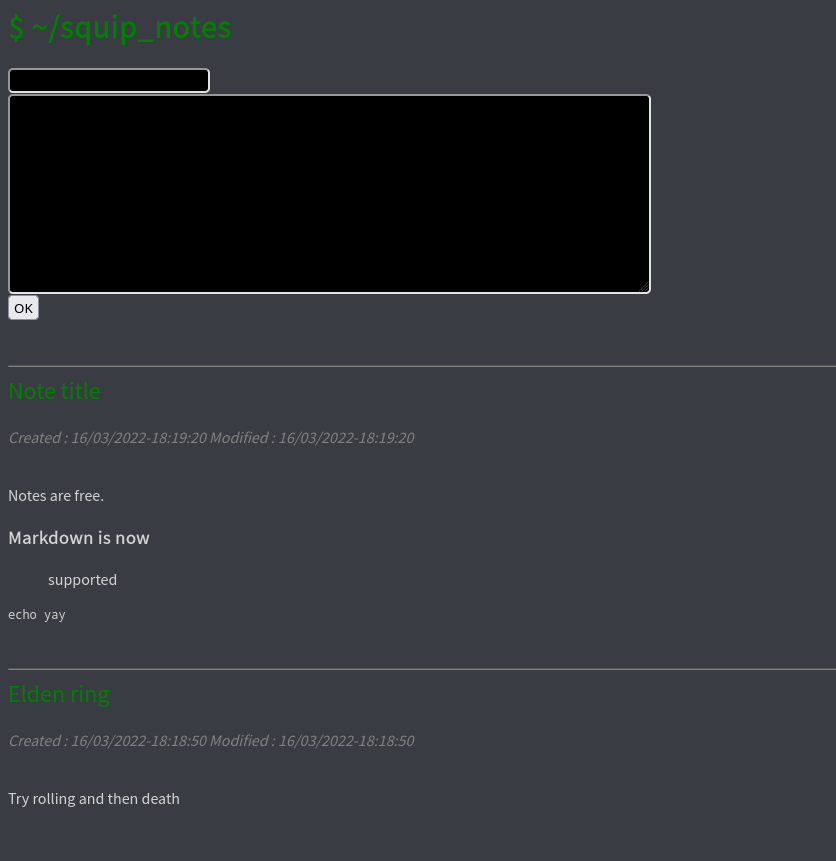
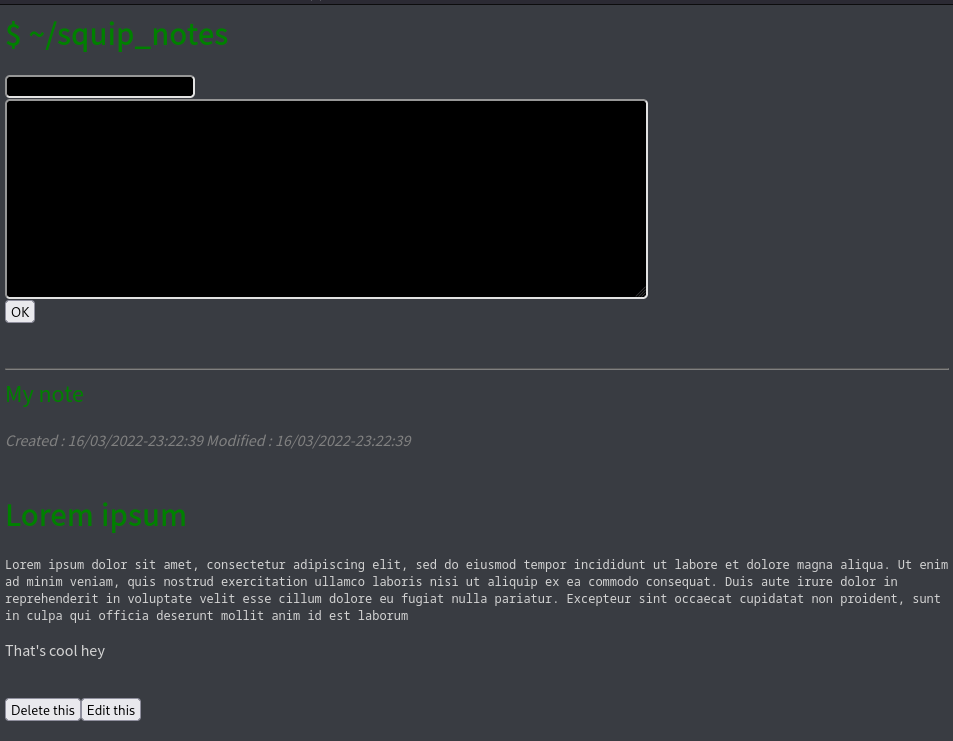
Edition et suppression des notes

Changed region(s): [[0.0, 0.0, 0.7775, 0.4656], [0.0, 0.7449, 0.9952, 0.9933], [0.0, 0.4966, 0.4976, 0.7139]]

diff --git a/src/templates/edit.html b/src/templates/edit.html
@@ -1,0 +1,28 @@
+<html>
+	<head>
+		<link rel="stylesheet" href="{{ url_for('static', filename='styles/main.css') }}" type="text/css" />
+		<meta http-equiv="Content-Type" content="text/html; charset=utf-8"/>
+		<link href='https://fonts.googleapis.com/css?family=Source Sans Pro' rel='stylesheet'>
+	<title>squip_notes</title>
+	</head>
+	<body>
+
+	<h1>$ ~/squip_notes</h3>
+	<div class="div1">
+		<form action="." method="POST">
+			<textarea type="text" name="title" class="title">{{ ntitle }}</textarea><br>
+			<textarea type="text" name="text" rows = "5" cols = "60*" class="text">{{ ntext }}</textarea><br>
+			<button type="submit" name="submit">OK</button>
+		</form>
+
+		You are editing {{ notenumber }} <br>
+		<!--Its title is {{ ntitle }} <br>
+			Its text says {{ ntext }} <br>-->
+		<br>
+	{{ nr }} 
+	<div>
+
+  </body>
+  </meta>
+  </html>
+

diff --git a/src/app.py b/src/app.py
@@ -1,13 +1,13 @@
 #!/usr/bin/env python3
 #coding: utf-8
-from flask import Flask, render_template, Markup, request
+from flask import Flask, render_template, Markup, request, redirect, url_for
 import markdown
 
 #!---------- squiNotes.py ----------
 # My notes-taking app
 #-----------------------------!
 
-
+#CLASS
 class note:
     def __init__(self, createtime: int, modtime: int, title: str, text: str):
         """
@@ -36,22 +36,17 @@ class note:
         <hr>
         <div class="notetitle">{Markup.escape(self.title)}</div><br>
         <div class="notetime">Created : {self.rendertime(self.createtime)} Modified : {self.rendertime(self.modtime)}</div><br>
-        <div class="notetext">{markdown.markdown(self.text)}</div><br>"""
+        <div class="notetext">{markdown.markdown(self.text)}</div><br>
+        <form action="." method="GET" name="{self.createtime}">
+        <button type="submit" name="delete" value="{self.createtime}" class="delbutton">Delete this</button><button type="submit" name="edit" value="{self.createtime}" class="editbutton">Edit this</button>
+        </form><br>
+        """
         return Markup(rendered)
 
     def __str__(self):
         return self.title
 
-def catnotes(notelist: list):
-    """
-    Concatenate a list of notes into a str.
-    """
-    final = ""
-    for note in notelist:
-        final += note.flaskrender()
-
-    return final
-
+#FUNC
 def dumpnotes(notes):
     """
     Get our notes list and save them as pickle to notes.pickle
@@ -77,6 +72,46 @@ def getnotes():
 
     return notes
 
+def catnotes(notelist: list):
+    """
+    Concatenate a list of notes into a str.
+    """
+    final = ""
+    for note in notelist:
+        final += note.flaskrender()
+
+    return final
+
+def delnote(timestamp: int):
+    """
+    Delete note in our pickle file for which the createtime corresponds to timestamp
+    """
+    notes = getnotes()
+    for note in notes:
+        if int(note.createtime) == int(timestamp):
+            notes.remove(note)
+            dumpnotes(notes)
+            return True
+    return False
+
+def findnote(createtime: int):
+    """
+    Find a note in our pickle file of notes by its createtime
+    """
+    notes = getnotes()
+    for note in notes:
+        if note.createtime == createtime:
+            return note
+
+def addnote(mynote: note):
+    """
+    Add a note to our notes pickle file (and sort it).
+    """
+    notes = getnotes()
+    notes.append(mynote)
+    notes = sorted(notes, key=lambda note: note.modtime, reverse=True)
+    dumpnotes(notes)
+
 
  
 #----------! MAIN
@@ -84,22 +119,49 @@ app = Flask(__name__)
 
 @app.route('/', methods=['GET'])
 def render():
+    #Delete has been clicked
+    try:
+        todelete = request.args.get("delete")
+        delnote(int(todelete))
+    except Exception as e:
+        pass
+
+    #Edit has been clicked
+    try:
+        toedit = request.args.get("edit")
+        if toedit is not None:
+            return redirect(url_for('edit', notenumber=toedit))
+    except Exception as e:
+        pass
+    
     return render_template("homepage.html", nr = catnotes(getnotes()))
 
+#Edition mode
+@app.route('/edit', methods=['GET', 'POST'])
+def edit():
+    import time
+    if request.method == "GET":
+        notenumber = request.args.get("notenumber")
+        mynote = findnote(int(notenumber))
+        delnote(int(notenumber))
+    return render_template("edit.html", notenumber=notenumber, ntitle=mynote.title, ntext=mynote.text)
+
+#Basic route, allows note creation
 @app.route('/', methods=['POST'])
 def homepage():
     import time
-    notetitle = request.form['title']
-    notetext = request.form['text']
-    rightnow = int(time.time())
-    newnote = note(createtime=rightnow, modtime=rightnow, title=notetitle, text=notetext)
-    notes = getnotes()
-    notes.append(newnote)
-    notes = sorted(notes, key=lambda note: note.modtime, reverse=True)
-    dumpnotes(notes)
+    #New note
+    try:
+        notetitle = request.form['title']
+        notetext = request.form['text']
+        rightnow = int(time.time())
+        newnote = note(createtime=rightnow, modtime=rightnow, title=notetitle, text=notetext)
+        addnote(newnote)
+    except:
+        pass
     return render_template("homepage.html", nr = catnotes(getnotes()))
 
 
 
 if __name__ == '__main__':
-    app.run()
+    app.run(host="0.0.0.0")

diff --git a/README.md b/README.md
@@ -7,7 +7,6 @@ This is a *very* basic notes-taking program. It uses python with flask and pickl
 ![Screenshot of the application](./squipnotes.png)
 
 ## Future features, todo
-* Allow for notes modification and deletion
 * A squirrel ascii picture somewhere in the page :3
 * Less ugly colors and font
 * Better syntax coloring and markdown rendering in general
